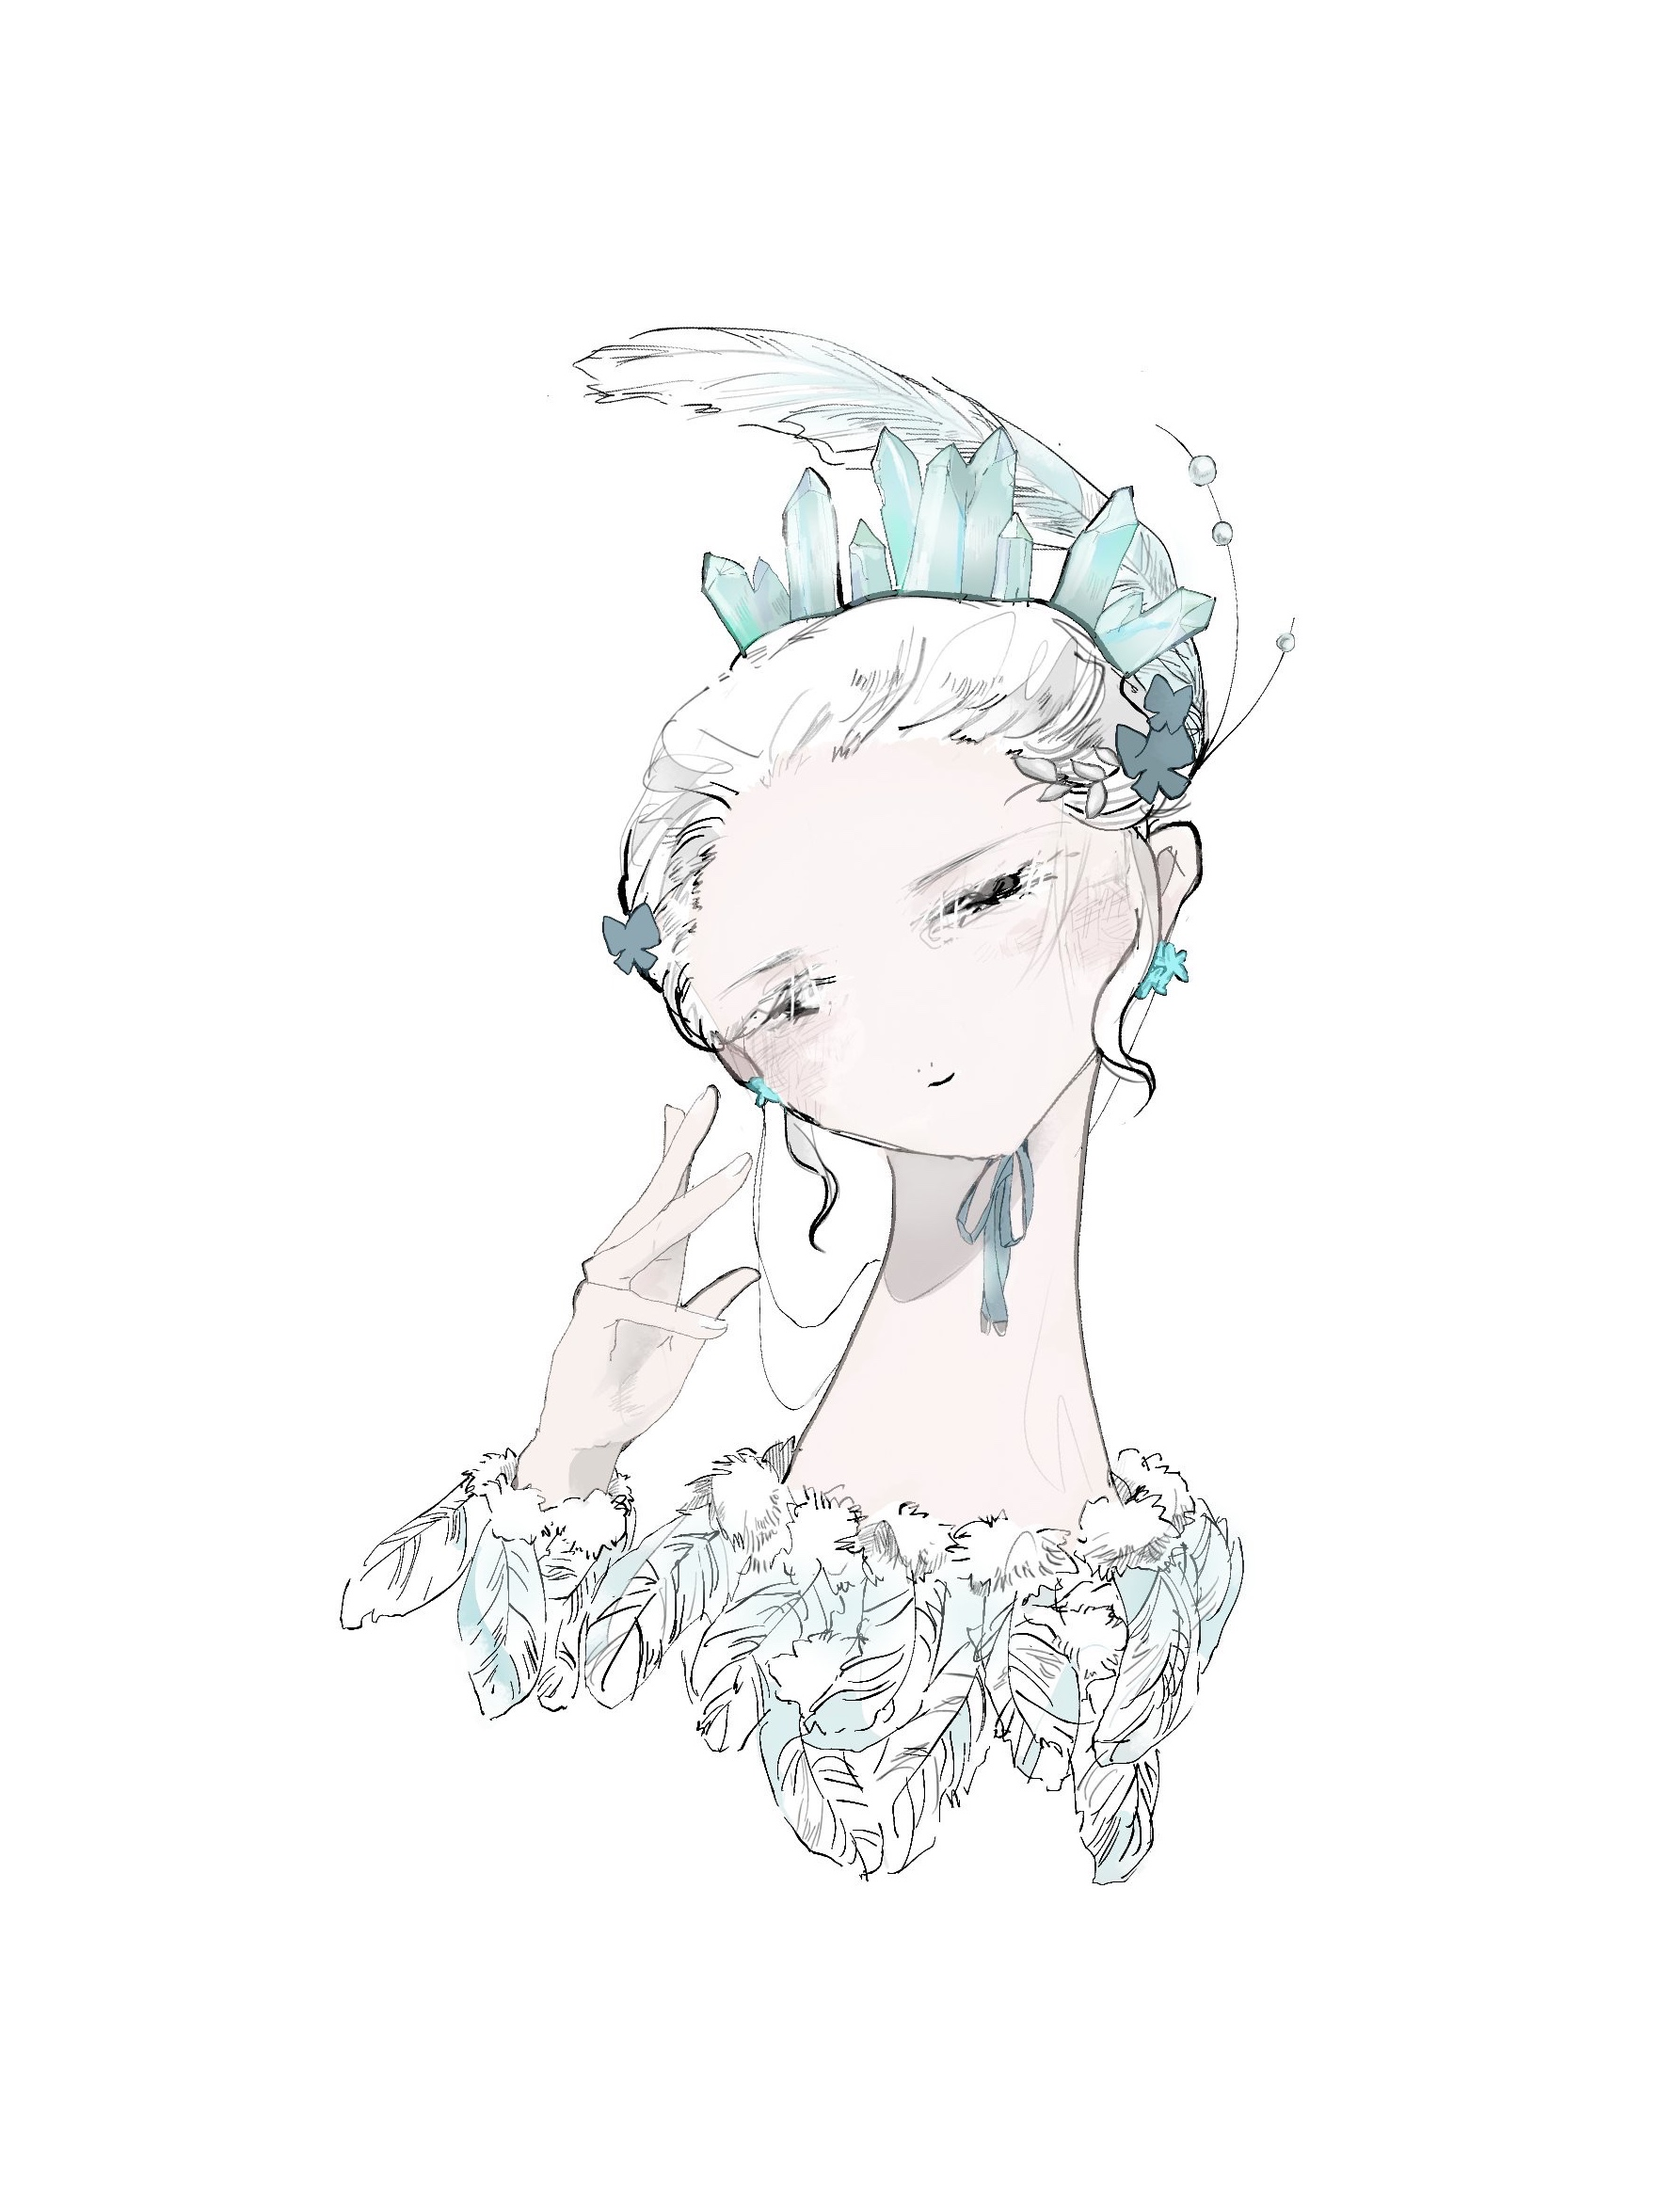
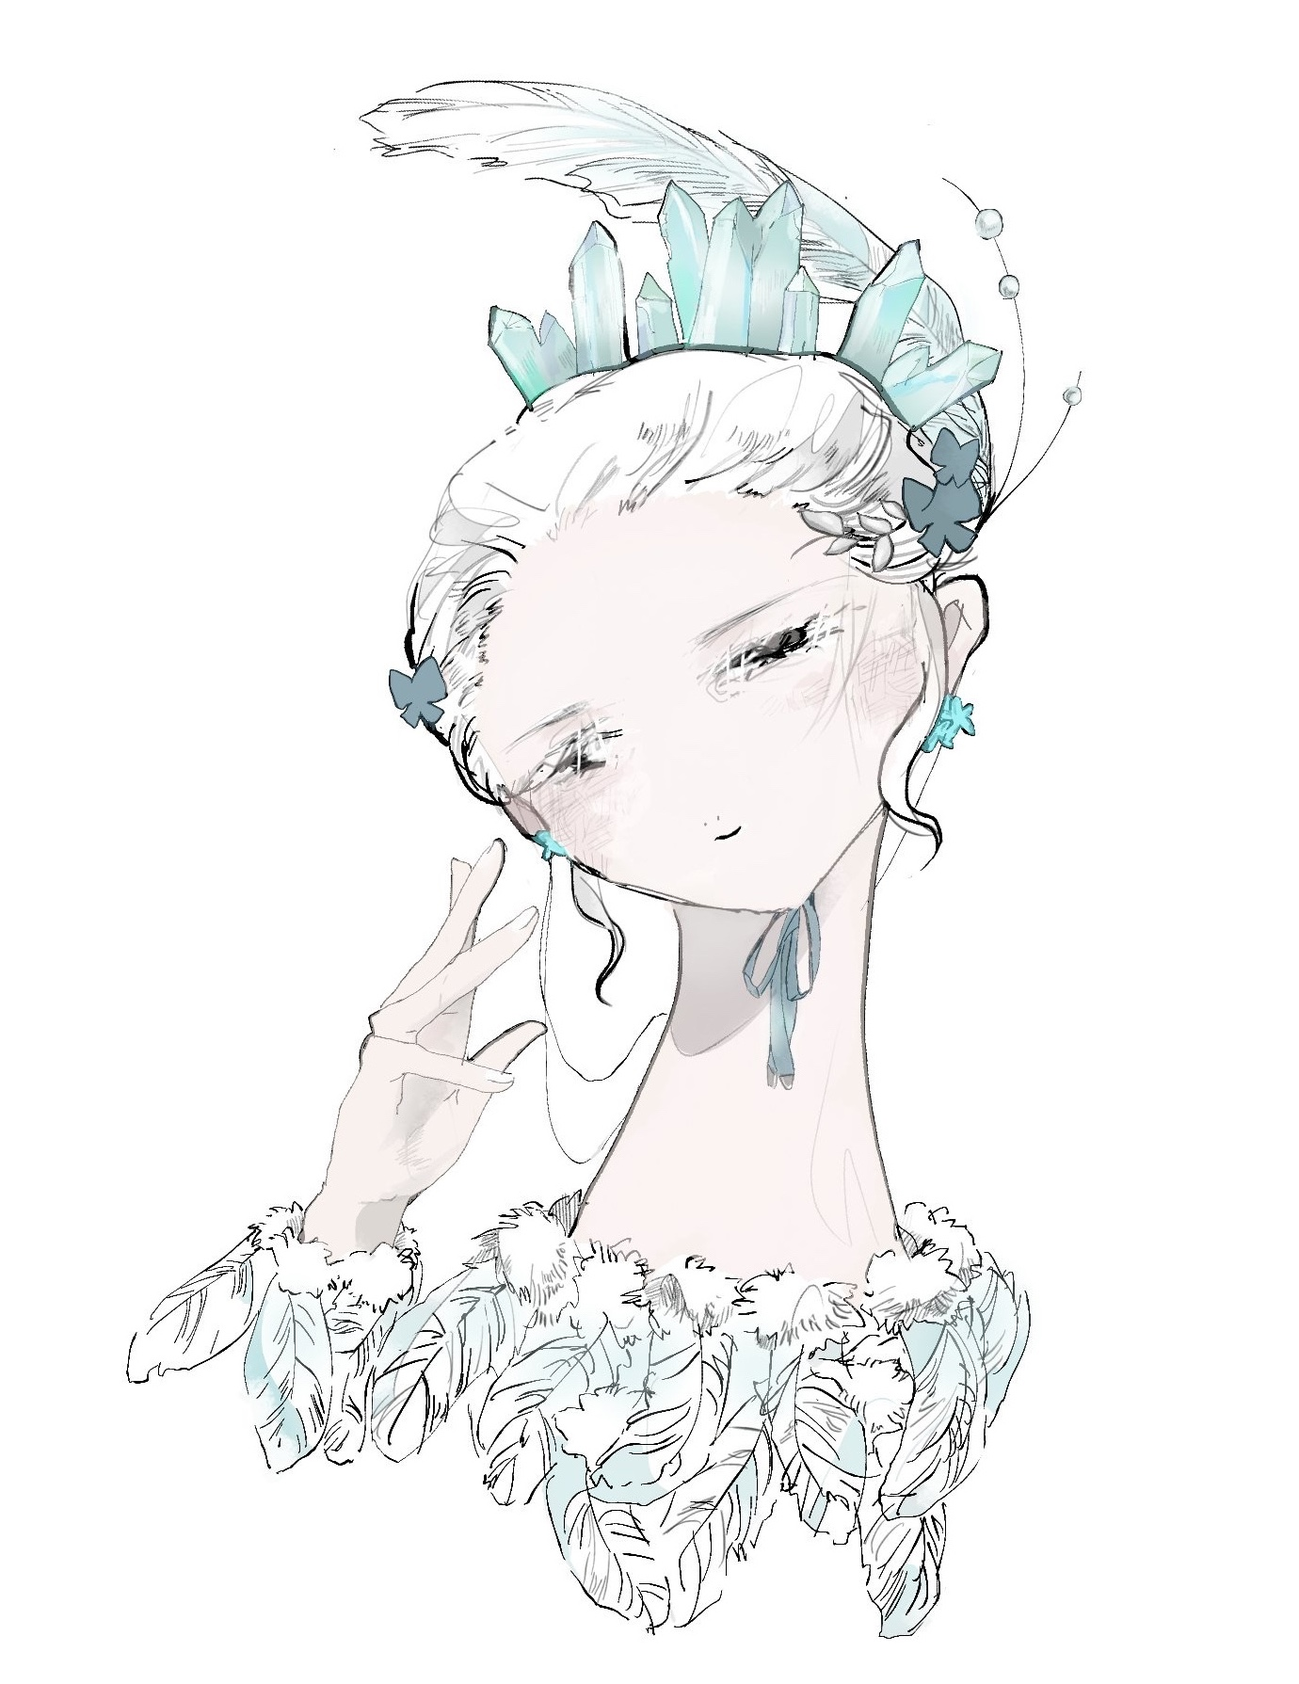
Add files via upload

diff --git a/about.html b/about.html
@@ -31,21 +31,16 @@
 
       <p class="about-text">
         イラスト・ロゴ制作、アプリ開発を中心に活動しています。<br>
-        静けさ、神聖さ、透明感をテーマに、
-        見る人の心が少し落ち着くような表現を目指しています。
+        静けさ、神聖さ、透明感をテーマに、見る人の心が少し落ち着くような表現を目指しています。
       </p>
 
-      <p class="about-text">
-        ご依頼では、世界観や雰囲気を大切にしながら、
-        丁寧にヒアリングを行い制作いたします。
-      </p>
-
-      <!-- クラウドワークス導線 -->
+<!-- 
+      クラウドワークス導線
       <div class="about-link">
         <a class="button" href="https://crowdworks.jp/public/employees/6705910?ref=from_mobile_slide_menu" target="_blank" rel="noopener noreferrer">
           クラウドワークスのプロフィールを見る
         </a>
-      </div>
+      </div> -->
     </section>
   </main>
 

diff --git a/index.html b/index.html
@@ -8,7 +8,7 @@
   <!-- CSS -->
   <link rel="stylesheet" href="css/style.css" />
 
-  <!-- Google Fonts（神聖・やわらかめ） -->
+  <!-- Google Fonts -->
   <link rel="preconnect" href="https://fonts.googleapis.com">
   <link rel="preconnect" href="https://fonts.gstatic.com" crossorigin>
   <link href="https://fonts.googleapis.com/css2?family=Noto+Serif+JP:wght@300;400&display=swap" rel="stylesheet">

diff --git a/css/style.css b/css/style.css
@@ -61,7 +61,7 @@ body {
 }
 
 .hero-image img {
-  max-width: 460px;
+  max-width: 600px;
   width: 100%;
 }
 
@@ -97,7 +97,7 @@ body {
 
 /* ===== About ===== */
 .about-text {
-  max-width: 640px;
+  max-width: 800px;
   margin-bottom: 32px;
 }
 
